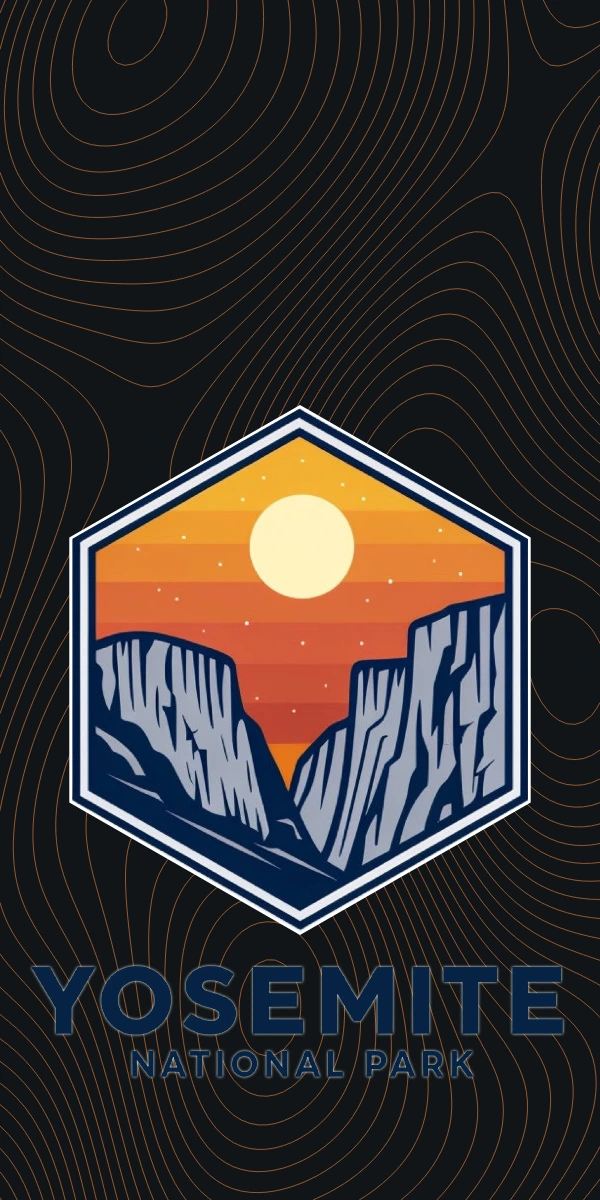
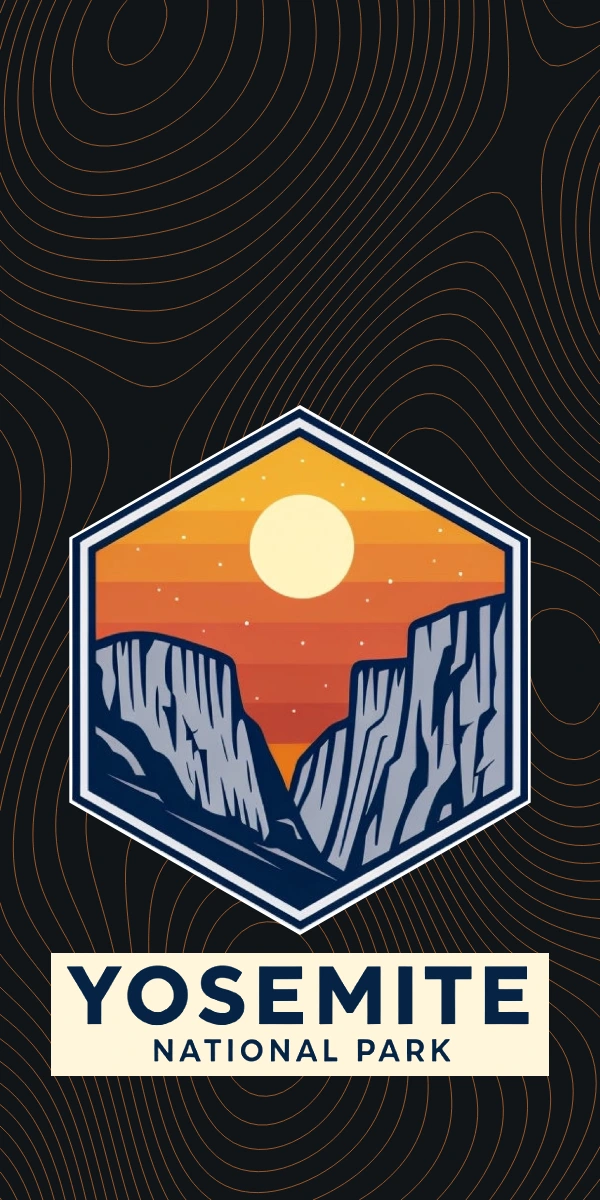
Keep the Yosemite wordmark readable on dark case backgrounds

Changed region(s): [[0.06, 0.7708, 0.96, 0.925]]

diff --git a/assets/design-colorways.js b/assets/design-colorways.js
@@ -152,11 +152,20 @@
       cx.save();cx.beginPath();cx.moveTo(bx+bw/2,by);cx.lineTo(bx+bw,by+bh*.25);cx.lineTo(bx+bw,by+bh*.75);cx.lineTo(bx+bw/2,by+bh);cx.lineTo(bx,by+bh*.75);cx.lineTo(bx,by+bh*.25);cx.closePath();
       cx.strokeStyle='#fff';cx.lineWidth=w*.009;cx.stroke();cx.clip();cx.drawImage(src,iw*.2715,ih*.1455,iw*.456,ih*.524,bx,by,bw,bh);cx.restore();
       // Preserve the navy lettering on every background; a cream backing keeps the title legible.
-      var text=document.createElement('canvas');text.width=Math.round(w*.92);text.height=Math.round(text.width*(ih*.14)/(iw*.64));
+      var text=document.createElement('canvas');text.width=Math.round(w*((id==='original'||id===artworkOnly.id)?.92:.80));text.height=Math.round(text.width*(ih*.14)/(iw*.64));
       var tx=text.getContext('2d',{willReadFrequently:true});tx.drawImage(src,iw*.18,ih*.713,iw*.64,ih*.14,0,0,text.width,text.height);
       var data=tx.getImageData(0,0,text.width,text.height),p=data.data;
       for(var j=0;j<p.length;j+=4){var alpha=Math.max(0,Math.min(1,(205-Math.max(p[j],p[j+1],p[j+2]))/125));p[j]=6;p[j+1]=36;p[j+2]=68;p[j+3]=Math.round(alpha*255);}
-      tx.putImageData(data,0,0);cx.save();cx.shadowColor='#fffcf2';cx.shadowBlur=w*.006;cx.drawImage(text,w*.04,by+bh+h*.025);cx.restore();text.width=text.height=0;
+      tx.putImageData(data,0,0);
+      var titleY = by + bh + h * .025;
+      var titleX = (w - text.width) / 2;
+      if (id !== 'original' && id !== artworkOnly.id) {
+        var padding = w * .015;
+        cx.fillStyle = '#fff5db';
+        cx.fillRect(titleX-padding, titleY-padding, text.width+2*padding, text.height+2*padding);
+      }
+      cx.drawImage(text, titleX, titleY);
+      text.width=text.height=0;
     }
     cv.naturalWidth=cv.width;cv.naturalHeight=cv.height;return cv;
   }
